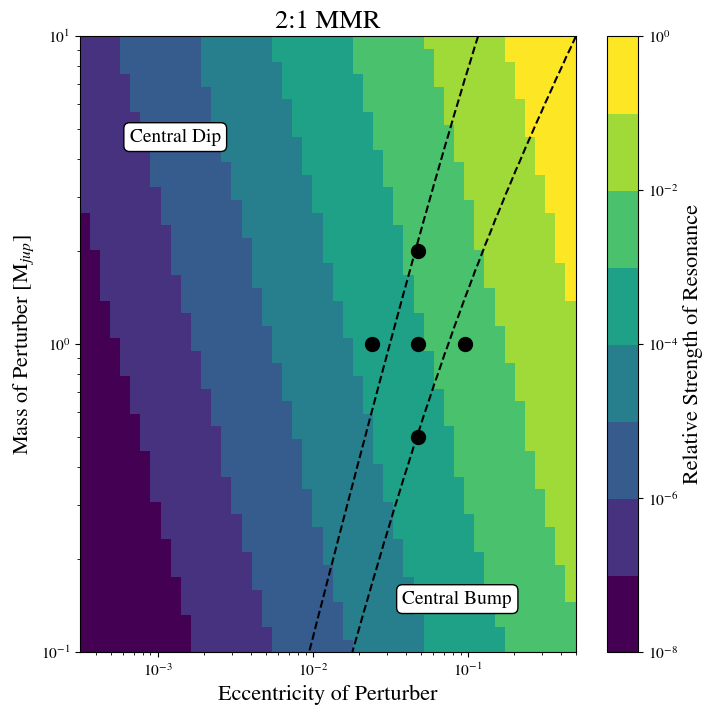
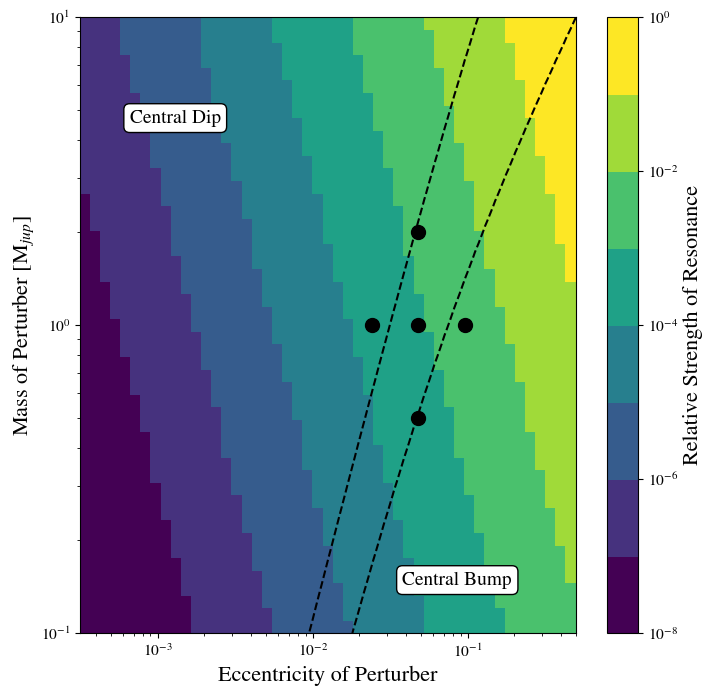
Implement Tom's edits

diff --git a/main.tex b/main.tex
@@ -139,10 +139,7 @@ equlibrium value, while this angle will circulate outside of resonance. For smal
 pendulum. Variations in the critical angle are coupled to changes in the mean motion and semimajor axis \citep{2000ssd..book.....M}. An important 
 point to note, which we will come back to later, is that the variation frequency of this angle approaches zero near the edge of a resonance. The 
 width of a resonance can be defined by determining the largest variation in semimajor axis that permits librational, rather than circulatory motion of 
-the $\phi$. For second and higher order resonances, the maximum libration width is given by
-% TRQ: there should be a reference (or references) for the equations
-% below.  Perhaps something like "Below we derive the libration widths
-% following Murray & Dermott, chapter XX.
+the $\phi$. For second and higher order resonances, the maximum libration width is given by equation 8.58 in \citet{2000ssd..book.....M} as
 
 \begin{equation}\label{eq:res_so}
 	\frac{\delta a}{a} = \pm \left( \frac{16}{3} \frac{\left| C_{r} \right|}{n} e^{\left| 2 p + q \right|} \right)^{1/2},
@@ -157,8 +154,7 @@ resonance,
 	                      & + & \left. 4(p+q) \alpha D + \alpha^{2} D^{2} \right] b^{p+q}_{1/2},
 \end{eqnarray}
 
-\noindent where $D b^{j}_{s}$ is the first derivative with respect to $\alpha$ of the Laplace coefficient defined in equation \ref{eq:lap}. This can 
-be written as
+\noindent (see \citet{2000ssd..book.....M} table 8.1) where $D b^{j}_{s}$ is the first derivative with respect to $\alpha$ of the Laplace coefficient defined in equation \ref{eq:lap}. This is given by \citet{1961mcm..book.....B} as
 
 \begin{equation}\label{eq:lap_d}
 	\frac{d b_{s}^{j}}{d \alpha} = s \left( b_{s+1}^{j-1} - 2 \alpha b_{s+1}^{j} + b_{s+1}^{j+1} \right).
@@ -170,12 +166,14 @@ For a first order resonance, the associated disturbing function terms are slight
 	f_{d}(\alpha) = (p+q) b_{1/2}^{p+q} + \frac{\alpha}{2} D b_{1/2}^{p+q},
 \end{equation}
 
-\noindent and there is an additional contribution to the motion of the critical angle by the pericenter precession rate such that
+\noindent (see \citet{2000ssd..book.....M} table 8.1) and there is an additional contribution to the motion of the critical angle by the pericenter precession rate such that
 
 \begin{equation}\label{eq:res_fo}
 	\frac{\delta a}{a} = \pm \left(\frac{16}{3} \frac{\left| C_{r} \right|}{n} e \right)^{1/2} \left(  1 + \frac{1}{27 p^2 e^3} \frac{\left| C_{r} \right|}{n} 
-	\right)^{1/2} - \frac{2}{9 p e}  \frac{\left| C_{r} \right|}{n}.
+	\right)^{1/2} - \frac{2}{9 p e}  \frac{\left| C_{r} \right|}{n}
 \end{equation}
+
+\noindent (see \citet{2000ssd..book.....M} equation 8.76).
 
 Changes in eccentricity are correlated with changes in semimajor axis variations according to the Tisserand relation
 
@@ -224,8 +222,7 @@ e2m3 & 2.0 $M_{jup}$                     & 1.0 $e_{jup}$                        
 \subsection{Initial Conditions}\label{sec:ics}
 
 In total, five simulations are run, which are listed in table
-\ref{tab:sims}. The first
-% TRQ: second?
+\ref{tab:sims}. The second
 is a ``nominal'' case, in which the perturbing planet's mass and 
 eccentricity are set to that of Jupiter's. In the other four cases, the mass (eccentricity) is increased or decreased by a factor of two, while the 
 eccentricity (mass) is held at the nominal value. In all cases, the perturbing giant is placed on a 5.2 AU orbit around a 1 $M_{\odot}$ star. The 
@@ -260,25 +257,20 @@ components:
 \subsection{Time Stepping Scheme}\label{sec:timestep}
 
 For the purposes of the integrator, there are two relevant timescales in this system. The first is the orbital dynamical time $\sqrt{a^3/
-G M_{\odot}}$. All particles are placed on a fixed time step of $\Delta T$ = 0.01 yr. This is roughly 3\% of an orbital dynamical time at 
-the inner edge of the planetesimal disk. From numerical tests with {\sc ChaNGa}, we have found that this time step size preserves 
-the symplectic nature of the integration without being too computationally expensive. Although using $\Delta T$ = 0.01 yr keeps the 
-integration symplectic, we find that a small amount of artificial
-precession is produced.
-% TRQ: should we say why?
-This is most noticeable at the inner edge of the
-planetesimal disk.
-% TRQ: so are all particles on a base timestep of 0.0025 yr?
-We reduce the base time step size by an additional factor of 4 to the prevent the longitude of perihelia of planetesimals at the inner edge of the disk from drifting by more than the intrinsic spread in $\varpi$ due to the free eccentricity over the course of our integrations.
+G M_{\odot}}$. Experimentally, we have found that using a base timestep size with {\sc ChaNGa} of 3\% of an orbital dynamical time
+at the inner edge of the disk keeps the integration symplectic. Although doing so preserves orbital frequencies, the errors associated with
+precession frequencies do not average out to zero. This is especially important given the effects of secular forcing by the planet. To mitigate
+this, we further reduce the base timestep size by a factor of 4 and use $\Delta t$ = 0.0025 yr. Doing so prevents the longitude of perihelia of
+planetesimals at the inner edge of the disk, where this artificial precession is most severe, from drifting by more than the intrinsic spread in $\varpi$ due to the f
+ree eccentricity over the course of our integrations.
 
 An additional timescale is set by the dynamical time of the planetesimals ($\sim 1/\sqrt{G \rho}$), which is about 45 minutes. To 
 resolve the base time step and the dynamical timescale of planetesimals simultaneously, we use a two-tiered time stepping scheme. 
-To start, all bodies are placed on the orbital time step. A first pass of collision detection is then run in 
+To start, all bodies are placed on the base time step. A first pass of collision detection is then run in 
 which the radii of all bodies are inflated by a factor of 2.5. Any bodies with imminent collisions predicted using the inflated radii are 
 placed on a time step that is a factor of 16 smaller than the orbital
-time step.
-% TRQ: this shorter timestep is still larger than the planetesimal
-% dynamical time; is this a problem?
+time step. Although this is still a factor of roughly 7 larger than the dynamical time of a planetesimal, we found no difference in the collision rate
+when using any smaller of a minimum time step size.
 The purpose of the two-tiered scheme is to properly resolve 
 the gravitational interactions between any bodies that undergo a close encounter. This prevents the coarser base time step from 
 reducing the effectiveness of gravitational focusing, while minimizing the additional computational expense.
@@ -316,8 +308,7 @@ reducing the effectiveness of gravitational focusing, while minimizing the addit
 All five simulations are evolved for 5,000 years, which is roughly 400 complete orbits of the perturbing planet. Because the effects of the mean 
 motion resonances are not built into the initial conditions, the simulations must be run long enough for the distribution of orbital elements to reach 
 equilibrium near the resonances before the collision rate is measured. The libration timescale, which describes how long the critical angle (and also 
-the semimajor axis and eccentricity) of a planetesimal in resonance takes to undergo a full oscillation is given by
-% TRQ: again cite book for this.
+the semimajor axis and eccentricity) of a planetesimal in resonance takes to undergo a full oscillation is given by (see equation 8.47 in \citet{2000ssd..book.....M})
 \begin{equation}\label{eq:lib_time}
 	T_{lib} = \frac{2 \pi}{3 q^{2} C_{r} n e^{\left| 2p + q \right|}},
 \end{equation}
@@ -439,9 +430,7 @@ Although the nonaxisymmetric pileup of bodies near the edges of resonances has b
 mentioned in section \ref{sec:dynamics}, the circulation frequency of the critical angle slows as one approaches the edge of the resonance from the 
 outside. Following the pendulum analogy, this is equivalent to
 approaching the point where the pendulum becomes suspended in the
-vertical position
-% TRQ addition
-at top dead center. 
+vertical position at top dead center. 
 When the critical angle stays relatively stationary during an encounter, the net torque will drive the longitude of pericenter towards the point of 
 conjunction \citep{1976ARA&A..14..215P}.  This is the basic mechanism that causes isolated resonances to be stable. Inside of resonance, the critical 
 angle librates about some value and this configuration is maintained. Just outside of resonance, however, the critical angle slowly drifts away, with the 
@@ -498,9 +487,8 @@ $m$. For the 2:1 MMR, the dynamics near the resonance are equally sensitive to c
 We show the polar structure of the e2m1, e2m2 and e2m3 simulations in figure \ref{fig:coll_polar_m} alongside the radial collision profile. In all three 
 cases, the eccentricity of the perturbing planet is set to $e_{jup}$. Changes in the apocenter and pericenter distances of the edges of the 
 resonances are entirely due to changes in the resonance width. For the e2m1 and e2m2 simulations, the inner apocenter and outer pericenter 
-distances near the 2:1 MMR are quite similar and no strong features appear in the collision profile near this region. For the e2m3 case, the edges of 
-%TRQ: I'm not seeing that much of a gap compared to e2m2 and e2m1.
-the resonances are sufficiently separated to allow a gap near the center of the 2:1 resonance to appear in the collision profile.
+distances near the 2:1 MMR are quite similar and no strong features appear in the collision profile near this region. For the e2m3 case, the edges of
+the resonances are sufficiently separated to allow what appears to be the beginning of gap to form near the center of the 2:1 resonance in the collision profile.
 
 \subsection{Observability of the Dust}
 
@@ -520,8 +508,7 @@ The simulated observations are performed using the {simobserve} task in {\sc CAS
 $\rm RA = 11^{\rm h} 01^{\rm m} 52^{\rm s}$ and a $\delta = -34^\circ 42\arcmin 17\arcsec$ (i.e., the J2000 coordinates for TW Hydrae) and is 
 ``observed'' through transit on March 20, 2020. We observe the disk using configurations 8, 9, and 10 at 350 GHz (cycle 6 antenna file), spending six 
 hours on-source in each configuration\footnote{We have imagined that the TAC really likes us.}.  The visibilities are corrupted with thermal noise, 
-% TRQ: define PWV
-setting $\rm PWV=1.5$. They are then combined, imaged, and cleaned
+setting the precipitable water vapor to 1.5 mm. They are then combined, imaged, and cleaned
 using the task {\tt tclean}. Imaging uses Briggs weighting with a robustness 
 parameter of -1. 
 
@@ -542,7 +529,6 @@ determining where the 2:1 MMR is actually located.
 \end{center}
 \end{figure}
 
-%TRQ: fix label on e2m2 plot.
 \begin{figure*}
     \includegraphics[width=\textwidth]{figures/alma_profiles.png}
     \caption{The azimuthally-averaged radial profile based on the simulated cleaned images from all five simulations. The eccentricty of the perturbing planet increases from left to right, while the mass of the planet increases from bottom to top. The vertical dashed lines indicate the locations of the 3:1 and 2:1 resonances. As in figure \ref{fig:alma_sim_obs}, the size scale of the disk has been expanded by a factor of 10 and then placed at a distance of 100 pc.\label{fig:alma_profiles}}
@@ -550,11 +536,10 @@ determining where the 2:1 MMR is actually located.
 
 \section{Constraining the Mass and Eccentricity of the Planet}\label{sec:constrain}
 
-% TRQ: perhaps mention "2:1" somewhere in the caption.
 \begin{figure}
 \begin{center}
     \includegraphics[width=0.5\textwidth]{figures/bump_dip_diag.png}
-    \caption{The presence of a dip or bump near the resonances can be used to constrain the mass and eccentricity
+    \caption{The presence of a dip or bump near the 2:1 MMR can be used to constrain the mass and eccentricity
     of the perturbing planet. The color scale indicates the relative strength of the features, while the dashed lines
     indicate boundaries in parameter space where a dip or a bump will be produced at the resonance. Combinations of mass and eccentricity that fall 
     between the dashed lines correspond to an inner apocenter and outer pericenter separation at the edges of the resonance that is smaller than the 
@@ -569,20 +554,15 @@ when either the resonance width is large or the forced eccentricity is small. Th
 sufficiently large amount of overlap between the apocenters and pericenters of the inner and outer edges of the resonance, respectively. This is 
 achieved when the resonance is narrow and the forced eccentricity is large.
 
-% TRQ: it took me a while to understand the dashed lines.  Is the
-% following correct: the lower dashed line is where the apo/peri of
-% the inner/outer edges of the resonance begin to overlap; the upper
-% dashed line is when the overlap is equal to the width of the
-% resonance?  Perhaps spell this out?
-In figure \ref{fig:bump_dip_diag}, we show the constraints that the presence of a bump or a dip places on possible values of $(m_{g}, e_{g})$. A dip 
-is produced by a sufficiently low eccentricity, high mass planet, while a bump is produced by a high eccentricity, low mass planet. The parameter 
-choices for the five simulations presented in the previous section are shown by the black dots. Between the two dashed lines, the overlap between 
-the aphelion and perihelion distances of the inner and outer edges of the resonance is smaller than the width of the resonance. In this region, the 
-overdense regions on each side of the resonance spend roughly equal amounts of time at all possible distances, and no strong feature appears in 
-the collision profile.
+In figure \ref{fig:bump_dip_diag}, we show the constraints that the presence of a bump or a dip places on possible values of $(m_{g}, e_{g})$. The dashed
+lines indicate regions of parameter space where qualitatively different features in the collision profile are expected to form. Above the upper dashed line, the 
+resonance is wide while the radial excursion distance of planetesimals at the edge of the resonance is small, which gives rise to a dip in the collision profile. 
+Below the lower dashed line, the resonance is narrow, while the radial excursion distance is large, allowing the apocenter and pericenter distances of the edges 
+of the resonance to overlap and produce a bump in the collision profile. Between the dashed lines, the absolute value of separation between the apocenter and 
+pericenter distances of the inner and outer edges of the resonance is less than the resonance width. In this region of parameter space, no significant features in 
+the collision profile near the 2:1 MMR are expected to form. 
 
-% TRQ: perhaps a short definition of "strength" here?
-Because the strength of the 2:1 resonance scales with $e_{g}$ and  $m_{g}$, a sufficiently low mass and low eccentricity planet will not create 
+Because the strength\footnote{More specifically, the strength of the resonant term in the disturbing potential} of the 2:1 resonance scales with $e_{g}$ and  $m_{g}$, a sufficiently low mass and low eccentricity planet will not create 
 enough of a perturbation in the planetesimal disk to produce a detectable bump or dip feature. The colored contours in figure \ref{fig:bump_dip_diag} 
 indicate the relative strength of the resonance as these quantities are varied. Although the resonance strength is equally sensitive to changes in 
 mass and eccentricity, the peri - apocenter overlap of the resonance edges is more sensitive to changes in eccentricity. This is because changes to 
@@ -658,8 +638,6 @@ additional gaps appears to be different for each resonance. In addition, the gap
 different than that of each corresponding interior MMR, which suggests that the structure is related to the symmetry of the path that a planetesimal
 in a frame corotating with the planet takes.
 
-%TRQ: perhaps thinner dashed lines for the MMRs?  It isn't easy to see
-%the gaps in the interior resonances.
 \begin{figure*}
     \includegraphics[width=\textwidth]{figures/boley_rtheta}
     \caption{Positions of planetesimals at the end of the simulation presented in \citet{2017ApJ...850..103B} in polar coordinates. The solid line marks the location of a 50 $M_{\bigoplus}$ planet embedded in the disk. The dashed lines mark the locations of first order MMRs. A second planet is also present at 32.3 AU, although it is not massive enough to induce any significant structure in the disk near associated resonances.\label{fig:boley_rtheta}}

diff --git a/makeFig.py b/makeFig.py
@@ -677,7 +677,6 @@ def bump_dip_diag2():
 	axes.set_yscale('log')
 	axes.set_xlabel('Eccentricity of Perturber')
 	axes.set_ylabel(r'Mass of Perturber [M$_{jup}$]')
-	axes.set_title('2:1 MMR')
 
 	props = dict(boxstyle='round', facecolor='white', alpha=1.0)
 	axes.text(0.1, 0.85, 'Central Dip', transform=axes.transAxes, fontsize=14,
@@ -1236,12 +1235,15 @@ def make_boley_rtheta():
 	# Planet 2
 	lw = 2
 	alpha = 0.5
-	axes.axhline(68.8, color='black', lw=lw)
-	axes.axhline(56.8, color='black', linestyle='--', lw=lw, alpha=alpha) # 4:3
-	axes.axhline(52.5, color='black', linestyle='--', lw=lw, alpha=alpha) # 3:2
-	axes.axhline(43.3, color='black', linestyle='--', lw=lw, alpha=alpha) # 2:1
-	axes.axhline(83.3, color='black', linestyle='--', lw=lw, alpha=alpha) # 3:4
-	axes.axhline(90.1, color='black', linestyle='--', lw=lw, alpha=alpha) # 2:3
+	axes.axhline(68.8, color='black', lw=lw, linestyle='--')
+	xmin, xmax = axes.get_xlim()
+	off = -1
+
+	axes.annotate('4:3', xy=(xmax*0.95, 56.8), xytext=(xmax*1.03, 56.8+off), arrowprops=dict(facecolor='black', shrink=0.001))
+	axes.annotate('3:2', xy=(xmax*0.95, 52.5), xytext=(xmax*1.03, 52.5+off), arrowprops=dict(facecolor='black', shrink=0.001))
+	axes.annotate('2:1', xy=(xmax*0.95, 43.3), xytext=(xmax*1.03, 43.3+off), arrowprops=dict(facecolor='black', shrink=0.001))
+	axes.annotate('3:4', xy=(xmax*0.95, 83.3), xytext=(xmax*1.03, 83.3+off), arrowprops=dict(facecolor='black', shrink=0.001))
+	axes.annotate('2:3', xy=(xmax*0.95, 90.1), xytext=(xmax*1.03, 90.1+off), arrowprops=dict(facecolor='black', shrink=0.001))
 
 	plt.savefig(file_str, format=fmt, bbox_inches='tight')
 
@@ -1306,8 +1308,8 @@ def gen_coll_PDF():
 	np.savetxt('e2m3_coll.txt', [coll_bins_r_m2, coll_pdf_r_m2])
 
 #gen_coll_PDF()
-#make_boley_rtheta()
-make_alma_profile()
+make_boley_rtheta()
+#make_alma_profile()
 #make_coll_polar_e()
 #make_coll_polar_m()
 #bump_dip_diag2()
